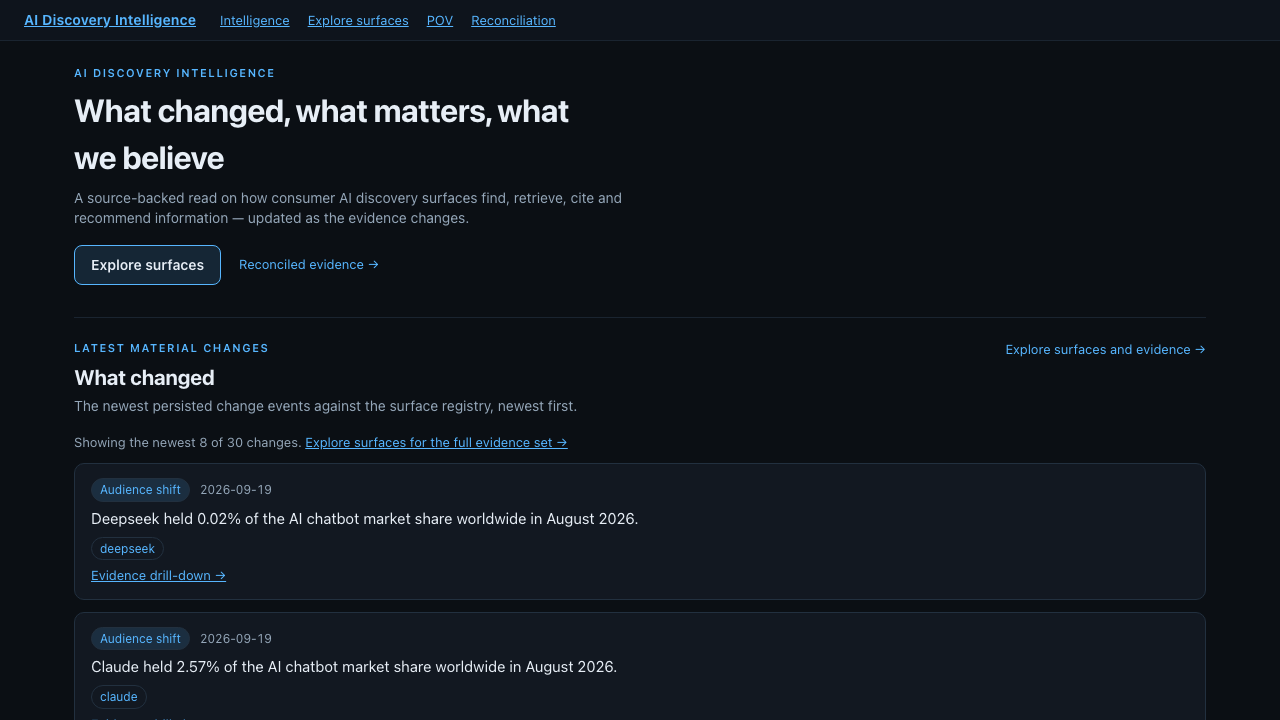
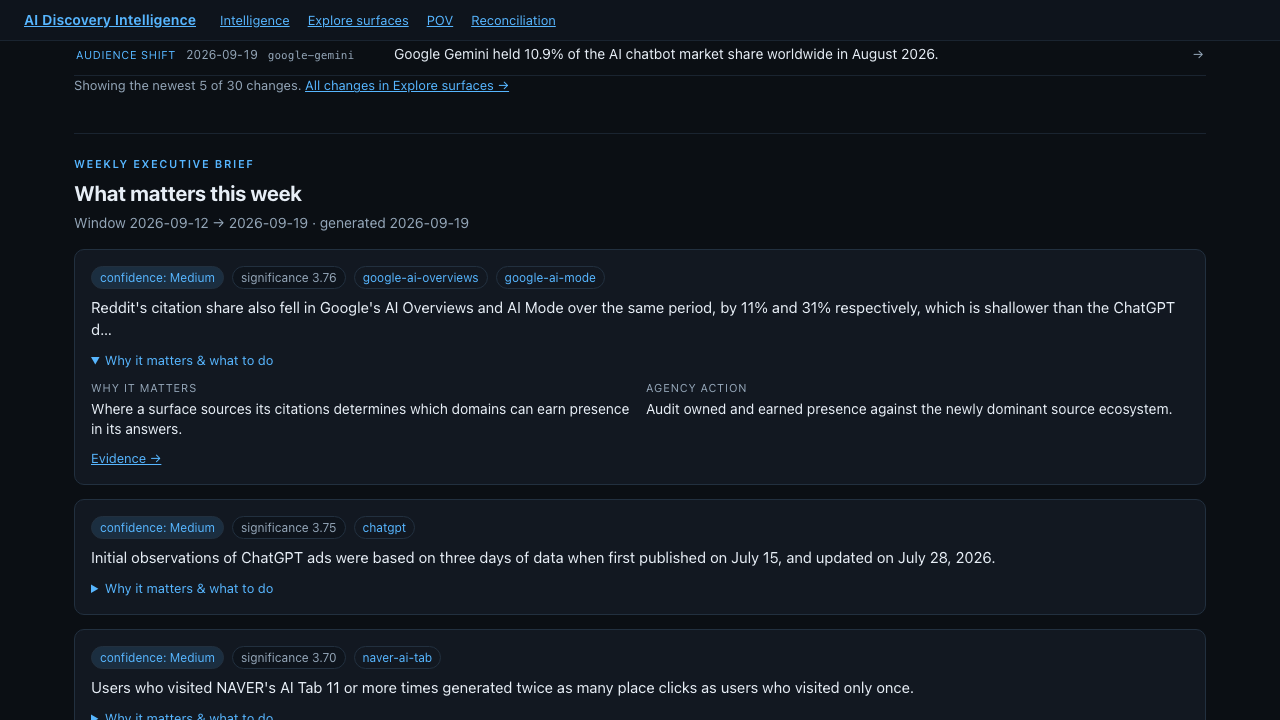
Declutter the landing view
Visual cleanup of the intelligence-first landing (#45 follow-up). No data or
contract changes; the same real /events, /brief and POV data is rendered, with
less repeated chrome:

- Change list is now compact one-line rows (type · date · surface → headline)
  instead of 8 stacked cards repeating the type/date pills and an
  "Evidence drill-down →" line under every item; the whole row is the drill-down
  link. Fewer rows shown (5) with the truncation count kept.
- Removed two duplicate "Explore surfaces" CTAs (top section link + truncation
  link pointed at the same place as the hero button and the nav); one hero button
  and one "All changes in Explore surfaces →" link remain.
- The brief's standing "why it matters / agency action" framing is deterministic
  per event type and identical across cards, so it now sits behind a per-card
  "Why it matters & what to do" expander; confidence, significance, surfaces and
  the change stay visible.
- POV summary is a fixed two-column grid with equal-height cards, a clamped body
  and the counts pinned to the bottom, so it no longer renders a ragged,
  uneven grid.
- Dropped the hero eyebrow that duplicated the brand already in the nav.

Verified: typecheck, 63 unit tests, build, and the landing e2e (8/8) against the
live API; desktop and mobile screenshots inspected.

diff --git a/web/components/landing-changes.tsx b/web/components/landing-changes.tsx
@@ -11,15 +11,21 @@ import { evidenceHref } from "@/lib/pov";
  * surface evidence for the claim behind the event. When the backend is
  * unreachable the section says so rather than showing a misleading empty list.
  */
-export const HOW_MANY = 8;
+export const HOW_MANY = 5;
 
 /** Best available date for an event, honest about absence. */
 function eventDate(event: { effective_from?: string | null; published_at?: string | null; observed_at?: string | null }): string {
   return formatDate(event.effective_from ?? event.published_at ?? event.observed_at ?? null);
 }
 
+/**
+ * Compact change row: the whole row is the drill-down link, so there is no
+ * separate "Evidence drill-down →" line repeated under every item. Type and
+ * date share one meta line; surfaces are chips only when they add context.
+ */
 export function LandingChanges({ outcome }: { outcome: EventsOutcome }) {
   const items = outcome.items.slice(0, HOW_MANY);
+  const total = outcome.items.length;
   return (
     <section className="landing-section" aria-labelledby="landing-changes-title" data-testid="landing-changes">
       <header className="landing-section-head">
@@ -30,9 +36,6 @@ export function LandingChanges({ outcome }: { outcome: EventsOutcome }) {
             The newest persisted change events against the surface registry, newest first.
           </p>
         </div>
-        <Link className="landing-link" href="/surfaces" data-testid="landing-changes-more">
-          Explore surfaces and evidence →
-        </Link>
       </header>
 
       {outcome.status === "error" || outcome.status === "unconfigured" ? (
@@ -46,37 +49,47 @@ export function LandingChanges({ outcome }: { outcome: EventsOutcome }) {
         </p>
       ) : (
         <>
-          {outcome.items.length > HOW_MANY ? (
+          <ol className="change-list" data-testid="change-list">
+            {items.map((event) => {
+              const claim = (event.claims ?? [])[0];
+              const surfaces = event.surfaces ?? [];
+              const row = (
+                <>
+                  <span className="change-meta">
+                    <span className="change-type">{eventTypeLabel(event.event_type)}</span>
+                    <span className="change-date">{eventDate(event)}</span>
+                    {surfaces.length ? (
+                      <span className="change-surfaces-inline">
+                        {surfaces.slice(0, 1).join("")}
+                        {surfaces.length > 1 ? ` +${surfaces.length - 1}` : ""}
+                      </span>
+                    ) : null}
+                  </span>
+                  <span className="change-title">{event.title}</span>
+                </>
+              );
+              return (
+                <li className="change-item" key={event.id} data-testid={`change-${event.id}`}>
+                  {claim ? (
+                    <Link className="change-row" href={evidenceHref(claim)}>
+                      {row}
+                      <span className="change-chevron" aria-hidden="true">
+                        →
+                      </span>
+                    </Link>
+                  ) : (
+                    <div className="change-row change-row-static">{row}</div>
+                  )}
+                </li>
+              );
+            })}
+          </ol>
+          {total > HOW_MANY ? (
             <p className="change-truncation" data-testid="changes-truncation">
-              Showing the newest {HOW_MANY} of {outcome.items.length} changes.{" "}
-              <Link href="/surfaces">Explore surfaces for the full evidence set →</Link>
+              Showing the newest {HOW_MANY} of {total} changes.{" "}
+              <Link href="/surfaces">All changes in Explore surfaces →</Link>
             </p>
           ) : null}
-          <ol className="change-list" data-testid="change-list">
-          {items.map((event) => (
-            <li className="change-item" key={event.id} data-testid={`change-${event.id}`}>
-              <div className="change-item-head">
-                <span className="pill change-type">{eventTypeLabel(event.event_type)}</span>
-                <span className="change-date">{eventDate(event)}</span>
-              </div>
-              <p className="change-title">{event.title}</p>
-              {(event.surfaces ?? []).length ? (
-                <p className="change-surfaces">
-                  {(event.surfaces ?? []).map((surface) => (
-                    <Link className="pill pill-surface" key={surface} href={`/surfaces?q=${encodeURIComponent(surface)}`}>
-                      {surface}
-                    </Link>
-                  ))}
-                </p>
-              ) : null}
-              {(event.claims ?? []).length ? (
-                <p className="change-drill">
-                  <Link href={evidenceHref((event.claims ?? [])[0])}>Evidence drill-down →</Link>
-                </p>
-              ) : null}
-            </li>
-          ))}
-          </ol>
         </>
       )}
     </section>

diff --git a/web/app/globals.css b/web/app/globals.css
@@ -675,21 +675,34 @@ main { flex: 1; }
 .landing-state-error { border-style: solid; border-color: var(--warn); color: var(--warn); }
 
 /* Latest material changes */
-.change-list { list-style: none; margin: 0; padding: 0; display: flex; flex-direction: column; gap: 12px; }
+.change-list { list-style: none; margin: 0; padding: 0; display: flex; flex-direction: column; gap: 0; border-top: 1px solid var(--border-soft); }
 .change-truncation { margin: 0 0 12px; color: var(--text-muted); font-size: 13px; }
-.change-item {
-  padding: 14px 16px;
-  border: 1px solid var(--border);
-  border-radius: var(--radius);
-  background: var(--bg-raised);
+.change-item { border-bottom: 1px solid var(--border-soft); }
+.change-row {
+  display: flex;
+  align-items: baseline;
+  gap: 14px;
+  padding: 11px 2px;
+  color: inherit;
+  text-decoration: none;
 }
-.change-item-head { display: flex; align-items: center; gap: 10px; margin-bottom: 6px; flex-wrap: wrap; }
-.change-type { background: var(--accent-soft); color: var(--accent); text-transform: none; }
-.change-date { color: var(--text-muted); font-size: 12px; font-variant-numeric: tabular-nums; }
-.change-title { margin: 0 0 8px; font-size: 15px; line-height: 1.4; }
-.change-surfaces { display: flex; gap: 6px; flex-wrap: wrap; margin: 0 0 6px; }
+.change-row:hover .change-title { color: var(--accent); }
+.change-row-static { cursor: default; }
+.change-meta {
+  display: flex;
+  align-items: baseline;
+  gap: 10px;
+  flex: 0 0 19rem;
+  color: var(--text-muted);
+  font-size: 12px;
+  white-space: nowrap;
+}
+.change-type { color: var(--accent); font-size: 11px; text-transform: uppercase; letter-spacing: 0.06em; }
+.change-date { font-variant-numeric: tabular-nums; }
+.change-surfaces-inline { color: var(--text-muted); font-family: var(--mono); font-size: 11px; }
+.change-title { flex: 1 1 auto; font-size: 14px; line-height: 1.4; }
+.change-chevron { color: var(--text-muted); font-size: 13px; }
 .pill-surface { text-decoration: none; }
-.change-drill { margin: 0; font-size: 13px; }
 
 /* Weekly brief */
 .brief-list { list-style: none; margin: 0; padding: 0; display: flex; flex-direction: column; gap: 14px; }
@@ -703,16 +716,27 @@ main { flex: 1; }
 .brief-confidence { background: var(--accent-soft); color: var(--accent); }
 .brief-significance { background: var(--bg-header); color: var(--text-muted); }
 .brief-watch { background: var(--warn-soft); color: var(--warn); }
-.brief-change { margin: 0 0 10px; font-size: 15px; line-height: 1.45; }
-.brief-why { display: grid; grid-template-columns: repeat(auto-fit, minmax(240px, 1fr)); gap: 12px; margin: 0 0 10px; }
+.brief-change { margin: 0; font-size: 15px; line-height: 1.45; }
+.brief-why-details { margin-top: 10px; }
+.brief-why-details > summary { cursor: pointer; color: var(--accent); font-size: 13px; }
+.brief-why { display: grid; grid-template-columns: repeat(auto-fit, minmax(240px, 1fr)); gap: 12px; margin: 10px 0 0; }
 .brief-why dt { font-size: 11px; text-transform: uppercase; letter-spacing: 0.08em; color: var(--text-muted); }
 .brief-why dd { margin: 3px 0 0; }
-.brief-meta { display: flex; gap: 14px; align-items: center; flex-wrap: wrap; margin: 0; font-size: 13px; }
-.brief-surfaces { display: flex; gap: 6px; flex-wrap: wrap; }
+.brief-evidence { margin: 10px 0 0; font-size: 13px; }
 
 /* Current POV summary */
-.pov-summary { list-style: none; margin: 0 0 20px; padding: 0; display: grid; grid-template-columns: repeat(auto-fit, minmax(320px, 1fr)); gap: 14px; }
+.pov-summary {
+  list-style: none;
+  margin: 0 0 20px;
+  padding: 0;
+  display: grid;
+  grid-template-columns: repeat(2, minmax(0, 1fr));
+  gap: 14px;
+  align-items: stretch;
+}
 .pov-summary-item {
+  display: flex;
+  flex-direction: column;
   padding: 14px 16px;
   border: 1px solid var(--border);
   border-radius: var(--radius);
@@ -721,8 +745,15 @@ main { flex: 1; }
 .pov-summary-head { display: flex; align-items: center; gap: 8px; flex-wrap: wrap; margin-bottom: 6px; }
 .pov-summary-id { font-family: var(--mono); font-size: 13px; text-decoration: none; }
 .pov-summary-section { margin: 0 0 4px; color: var(--text-muted); font-size: 12px; text-transform: uppercase; letter-spacing: 0.06em; }
-.pov-summary-base { margin: 0 0 8px; line-height: 1.45; }
-.pov-summary-meta { margin: 0; color: var(--text-muted); font-size: 12px; }
+.pov-summary-base {
+  margin: 0 0 8px;
+  line-height: 1.45;
+  display: -webkit-box;
+  -webkit-line-clamp: 4;
+  -webkit-box-orient: vertical;
+  overflow: hidden;
+}
+.pov-summary-meta { margin: auto 0 0; color: var(--text-muted); font-size: 12px; }
 .pov-recent h3 { margin: 0 0 12px; font-size: 15px; }
 
 @media (max-width: 640px) {
@@ -730,4 +761,7 @@ main { flex: 1; }
   .landing-hero h1 { font-size: 25px; }
   .site-nav { gap: 12px; padding: 10px 16px; }
   .site-nav ul { gap: 12px; }
+  .pov-summary { grid-template-columns: 1fr; }
+  .change-meta { flex: 1 1 100%; }
+  .change-row { flex-wrap: wrap; gap: 4px 12px; }
 }

diff --git a/web/components/landing-brief.tsx b/web/components/landing-brief.tsx
@@ -8,6 +8,11 @@ import { CONFIDENCE_LABELS, evidenceHref, type ConfidenceLabel } from "@/lib/pov
  * the material change, why it matters, the agency action, confidence and
  * significance. A `state:"empty"` brief says "no material item qualifies this
  * week" — distinct from an unreachable backend, which says so plainly.
+ *
+ * Each card leads with the change, confidence and significance. The standing
+ * "why it matters" / "agency action" framing is deterministic per event type
+ * (`config/brief_copy.yaml`), so it repeats across items; it is disclosed behind
+ * a per-card expander to keep the default view readable.
  */
 function confidenceLabel(value: string): string {
   return CONFIDENCE_LABELS[value as ConfidenceLabel] ?? value;
@@ -20,34 +25,35 @@ function BriefCard({ item }: { item: BriefItem }) {
         <span className="pill brief-confidence">confidence: {confidenceLabel(item.confidence)}</span>
         <span className="pill brief-significance">significance {item.significance.toFixed(2)}</span>
         {item.is_watch_item ? <span className="pill brief-watch">watch item</span> : null}
+        {item.surfaces.map((surface) => (
+          <Link
+            className="pill pill-surface"
+            key={surface}
+            href={`/surfaces?q=${encodeURIComponent(surface)}`}
+          >
+            {surface}
+          </Link>
+        ))}
       </div>
       <p className="brief-change">{clampText(item.change)}</p>
-      <dl className="brief-why">
-        <div>
-          <dt>Why it matters</dt>
-          <dd>{clampText(item.why_it_matters)}</dd>
-        </div>
-        <div>
-          <dt>Agency action</dt>
-          <dd>{clampText(item.agency_action)}</dd>
-        </div>
-      </dl>
-      <p className="brief-meta">
-        {item.surfaces.length ? (
-          <span className="brief-surfaces">
-            {item.surfaces.map((surface) => (
-              <Link className="pill pill-surface" key={surface} href={`/surfaces?q=${encodeURIComponent(surface)}`}>
-                {surface}
-              </Link>
-            ))}
-          </span>
-        ) : null}
+      <details className="brief-why-details">
+        <summary>Why it matters &amp; what to do</summary>
+        <dl className="brief-why">
+          <div>
+            <dt>Why it matters</dt>
+            <dd>{clampText(item.why_it_matters)}</dd>
+          </div>
+          <div>
+            <dt>Agency action</dt>
+            <dd>{clampText(item.agency_action)}</dd>
+          </div>
+        </dl>
         {item.evidence_ids.length ? (
-          <span className="brief-evidence">
+          <p className="brief-evidence">
             <Link href={evidenceHref(item.evidence_ids[0])}>Evidence →</Link>
-          </span>
+          </p>
         ) : null}
-      </p>
+      </details>
     </li>
   );
 }

diff --git a/web/app/page.tsx b/web/app/page.tsx
@@ -28,7 +28,6 @@ export default async function Page() {
   return (
     <div className="landing">
       <header className="landing-hero">
-        <p className="eyebrow">AI Discovery Intelligence</p>
         <h1>What changed, what matters, what we believe</h1>
         <p className="landing-subtitle">
           A source-backed read on how consumer AI discovery surfaces find, retrieve, cite and
@@ -37,9 +36,6 @@ export default async function Page() {
         <nav className="landing-actions" aria-label="Landing navigation">
           <Link className="landing-button" href="/surfaces">
             Explore surfaces
-          </Link>
-          <Link className="landing-link" href="/reconciliation">
-            Reconciled evidence →
           </Link>
         </nav>
       </header>

diff --git a/web/e2e/landing.spec.ts b/web/e2e/landing.spec.ts
@@ -88,6 +88,9 @@ test("landing shows real changes, brief and current POV from the live API", asyn
   const briefList = brief.getByTestId("brief-list");
   if ((await briefList.count()) > 0) {
     const first = brief.getByTestId("brief-item").first();
+    // The standing "why it matters / agency action" framing is disclosed behind a
+    // per-card expander (the copy repeats across items), so open it before checking.
+    await first.locator("details summary").first().click();
     await expect(first).toContainText("Why it matters");
     await expect(first).toContainText("Agency action");
     await page.screenshot({ path: shot(testInfo, "brief"), fullPage: false });
